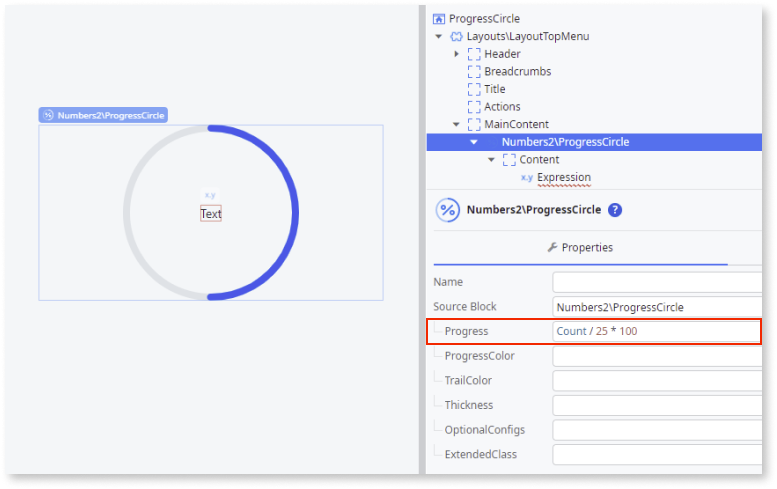
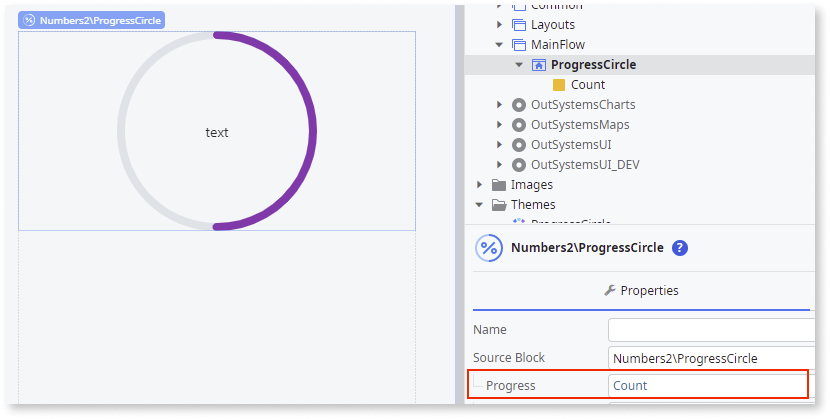
Updated procedure and screenshots

diff --git a/src/develop/ui/patterns/mobile/numbers/progresscircle.md b/src/develop/ui/patterns/mobile/numbers/progresscircle.md
@@ -5,6 +5,12 @@ summary: Displays the current progress of a task using circular or semi-circular
 
 # Progress Circle
 
+<div class="info" markdown="1">
+
+If you are using an OutSystems UI version lower than 2.8.0, please see the [Patterns and Versions Overview](https://outsystemsui-dev.outsystemsenterprise.com/OutSystemsUIWebsite/MigrationOverview).
+                            
+</div>
+
 You can use the Progress Circle UI Pattern to show the current progress of an operation flow. The progress is incremented in fractions of the circular badge.
 
 ![Example progress circle](<images/progresscircle-example-ss.png>)
@@ -23,9 +29,9 @@ In this example, we create a button that increments the progress circle each tim
 
     a. Go to **Module > Manage dependencies**.
 
-    b. Search for and select the relevant Producer, for example OutSystemsUI. Ensure Show All is selected. 
+    b. Search for and select the relevant Producer, for example OutSystemsUI. Ensure **Show All** is selected. 
 
-    c. On the Public elements for the selected Producer displayed on the right, ensure Show All is selected.
+    c. On the Public elements for the selected Producer displayed on the right, ensure **Show All** is selected.
     
     d. Search for and select the element you want to add, and click **Apply**. 
     
@@ -45,9 +51,15 @@ In this example, we create a button that increments the progress circle each tim
 
 1. Select the **Expression** widget inside the Progress Circle, and on the **Properties** tab, in the **Value** property, enter the relevant logic for the progress. In this example, enter the local variable **Count**. 
 
+    ![Add expression logic](<images/progresscircle-expression-ss.png>)
+
 1. From the Toolbox, drag the **Separator** widget into the Progress Circle.
 
+    ![Add the separator widget](<images/progresscircle-separator-ss.png>)
+
 1. From the Toolbox, drag an **Expression** widget under the **Separator** widget and enter the relevant logic for the denominator. In this example, enter ``"100"``.
+
+    ![Add an expression widget for the denominator](<images/progresscircle-denominator-ss.png>)
 
 1. From the Toolbox, drag the Button widget into the Main Content area of your application's screen. 
 
